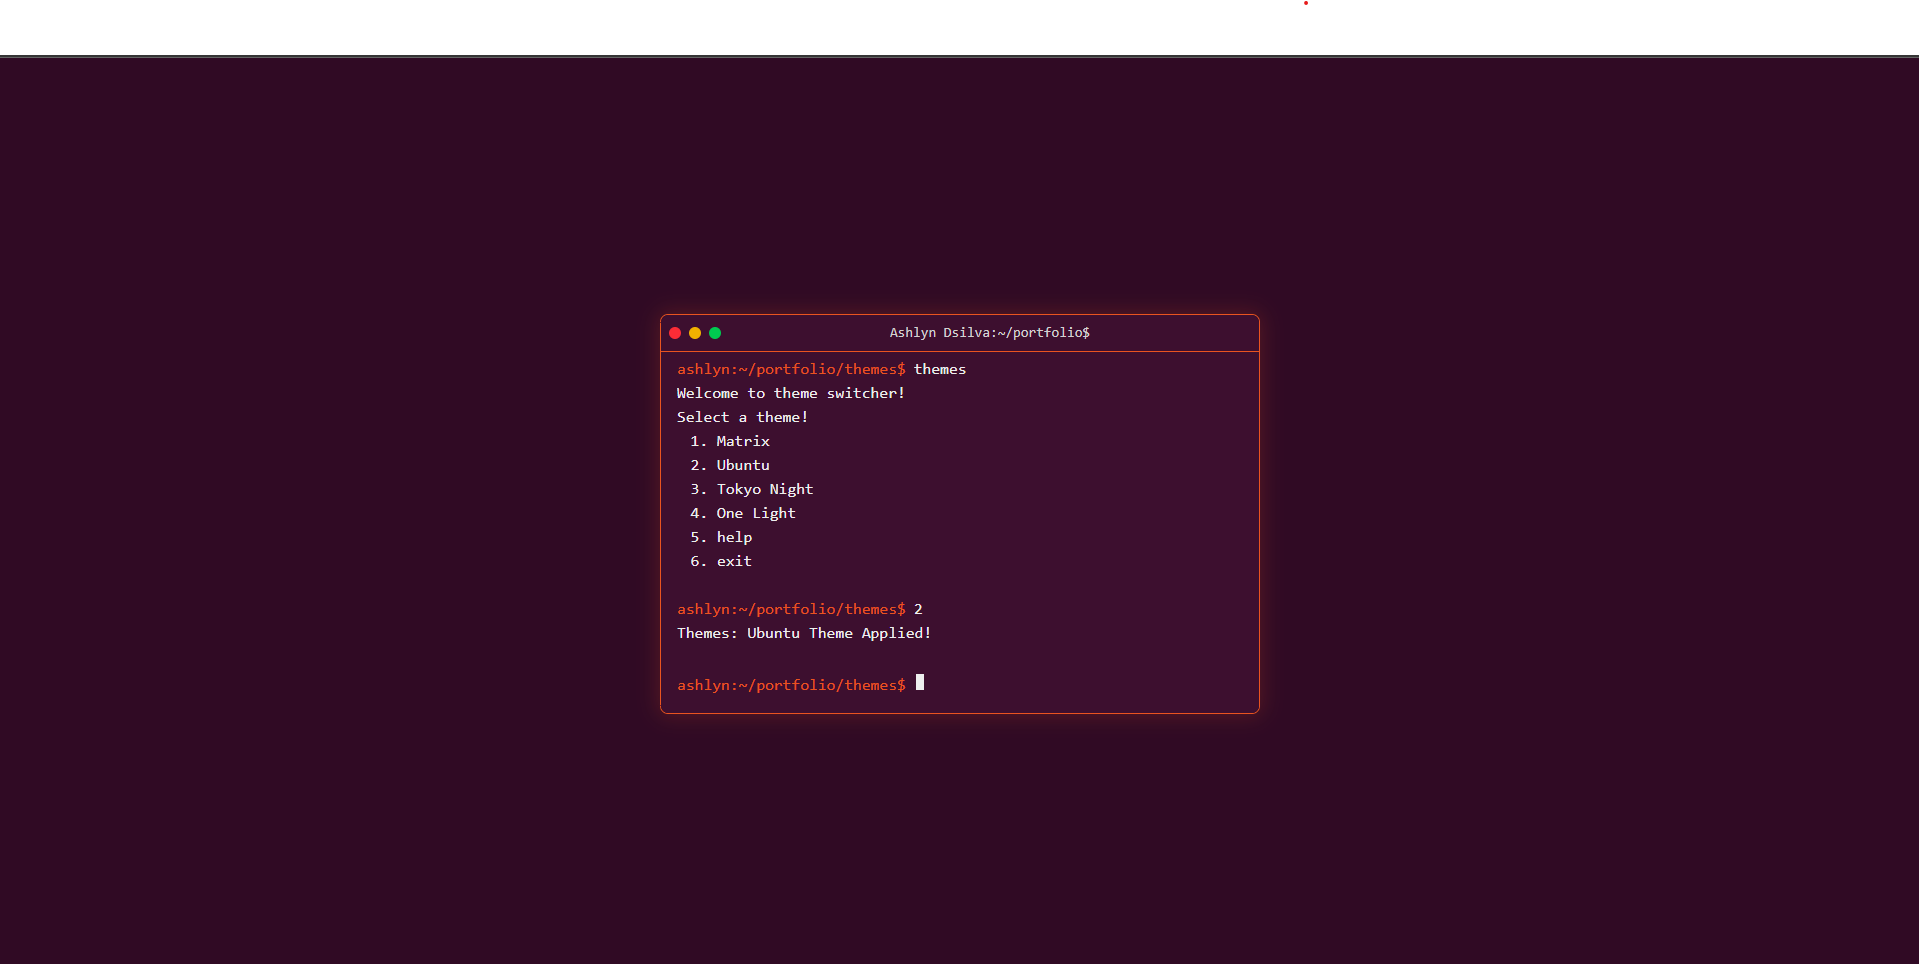
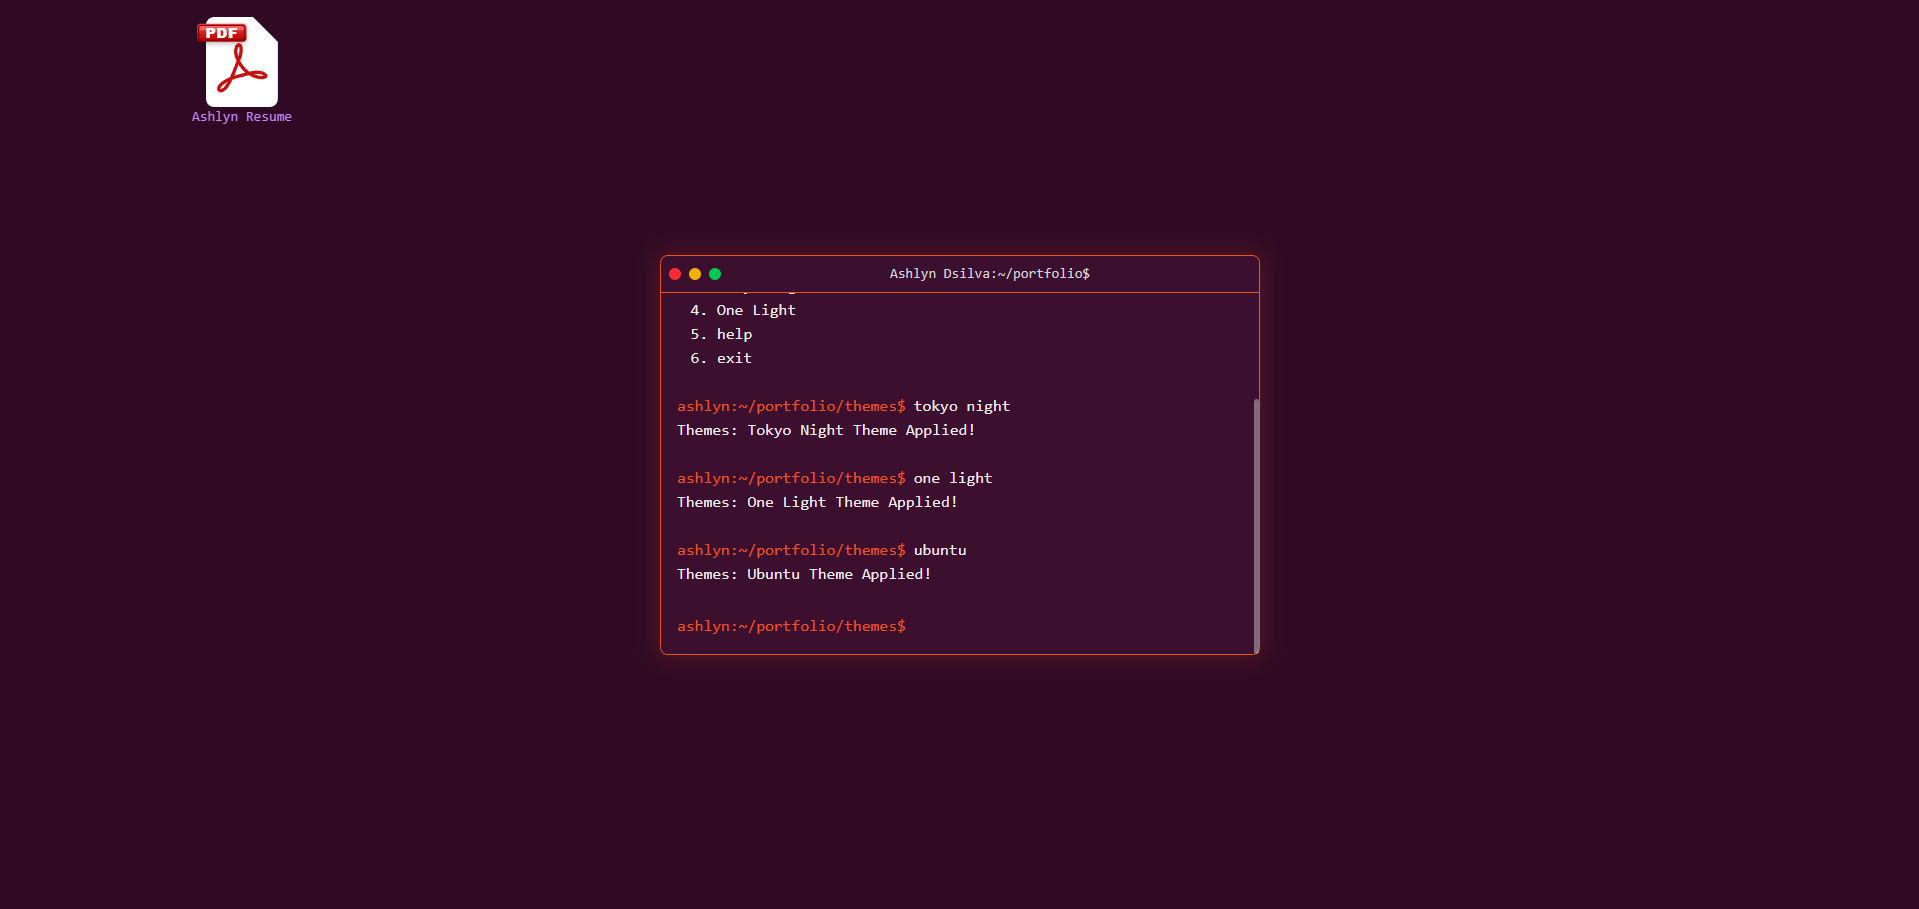
minor improvements and refactors

diff --git a/src/components/Terminal.tsx b/src/components/Terminal.tsx
@@ -5,6 +5,7 @@ import { commands } from "./commands/commands";
 import IconWrapper from "./IconWrapper";
 import useDragElement from "@/hooks/useDragElement";
 import { TerminalIcon } from "./svg/svg";
+import {themesArray} from '@/constants';
 // import MyIcon from "@/public/terminal.svg";
 
 interface Command {
@@ -26,20 +27,12 @@ export default function Terminal({
   const [history, setHistory] = useState<Command[]>([]);
   const [allHistory, setAllHistory] = useState<Command[]>([]);
   const [showIntro, setShowIntro] = useState<boolean>(true);
-  const [show, setShow] = useState<boolean>(true);
-  const [isVisible, setIsVisible] = useState<boolean>(true);
+  const [show, setShow] = useState<boolean>(false);
+  const [isVisible, setIsVisible] = useState<boolean>(false);
   const [commandPointer, setCommandPointer] = useState<number | null>(null);
   const [minMax, setMinMax] = useState("min");
   const [cursorShow, setCursorShow] = useState(false);
   const [isThemeSwitcher, setIsThemeSwitcher] = useState(false);
-
-  const themesObj: Record<string, string> = {
-    "1": "Matrix",
-    "2": "Ubuntu",
-    "3": "Tokyo",
-    "4": "One",
-    "6": "Exit",
-  };
 
   const eleRef = useRef<any | null>(null);
   useDragElement({ eleRef, childId: "header" });
@@ -83,30 +76,23 @@ export default function Terminal({
   const handleSubmit = (e: React.FormEvent) => {
     e.preventDefault();
 
-    // if(command?.trim()?.toLowerCase() === '') return;
-
     const trimmedText = command?.trim()?.toLowerCase();
 
     if (trimmedText === "clear") {
       setHistory([]);
-      setAllHistory((prev) => [
-        ...prev,
-        { command: trimmedText, isTheme: isThemeSwitcher },
-      ]);
+      setAllHistory((prev) => [...prev, { command: trimmedText, isTheme: isThemeSwitcher }]);
       setCommand("");
       setShowIntro(false);
       return;
     }
 
     if (isThemeSwitcher) {
-      if (trimmedText == "6") {
-        setIsThemeSwitcher(false);
-      }
-      if (!["5", "6"].includes(trimmedText) && themesObj[trimmedText]) {
-        setTheme(themesObj[trimmedText].toLowerCase());
+      if (trimmedText === "exit") setIsThemeSwitcher(false);
+      if (!["help", "exit"].includes(trimmedText) && themesArray.includes(trimmedText?.toLowerCase())) {
+        setTheme(trimmedText?.toLowerCase());
       }
       const updateObj = {
-        command: trimmedText == "5" ? "themes" : "themesComp",
+        command: trimmedText === "help" ? "themes" : "themesComp",
         isTheme: isThemeSwitcher,
         arg: trimmedText,
       };
@@ -118,23 +104,19 @@ export default function Terminal({
 
     if (trimmedText === "themes") {
       setIsThemeSwitcher(true);
-      const updateObj = { command: trimmedText, isTheme: true };
-      setHistory((prev) => [...prev, updateObj]);
-      setAllHistory((prev) => [...prev, updateObj]);
+      setHistory((prev) => [...prev, { command: trimmedText, isTheme: true }]);
+      setAllHistory((prev) => [...prev, { command: trimmedText, isTheme: true }]);
       setCommand("");
       return;
     }
 
-    const updateObj = { command: trimmedText, isTheme: isThemeSwitcher };
-    setHistory((prev) => [...prev, updateObj]);
-    setAllHistory((prev) => [...prev, updateObj]);
+    setHistory((prev) => [...prev, { command: trimmedText, isTheme: isThemeSwitcher }]);
+    setAllHistory((prev) => [...prev, { command: trimmedText, isTheme: isThemeSwitcher }]);
+    setCommand("");
 
-    setCommand(""); // clear after submit
-
-    if (trimmedText === "default") {
-      return;
+    if (trimmedText !== "default") {
+      checkForRedirect(trimmedText);
     }
-    checkForRedirect(trimmedText);
   };
 
   useEffect(() => {
@@ -143,6 +125,11 @@ export default function Terminal({
 
   useEffect(() => {
     setCursorShow(true);
+  }, []);
+
+  useEffect(() => {
+      const isLargeScreen = window.innerWidth >= 640;
+      if(isLargeScreen) toggleShow();
   }, []);
 
   const handleKeyDown = (e: React.KeyboardEvent<HTMLInputElement>) => {
@@ -202,9 +189,11 @@ export default function Terminal({
       setTimeout(() => setShow(true), 10); // allow reflow before fade in
     }
   };
+
   const handleShow = () => {
     setShow(!show);
   };
+
   const handleToggle = () => {
     if (show && isVisible) {
       assignActiveWindow(activeWindow =='terminal'? '':activeWindow)
@@ -245,7 +234,7 @@ export default function Terminal({
           className={`
              fixed top-[50%] left-[50%] translate-x-[-50%] translate-y-[-50%]
              terminal-border terminal-text rounded-lg terminal-shadow
-             w-full max-w-md lg:min-w-[600px]   
+             w-[calc(100dvw-2rem)] sm:w-full max-w-md lg:min-w-[600px]   
              flex flex-col max-h-[400px] transition-[min-height,width,opacity,color,background-color] duration-500 me-3
              ${minMax == "max" ? "min-h-[600px]" : "min-h-[400px]"}
              ${show ? `opacity-100 ${activeWindow == 'terminal' ? 'z-10':'z-0'}` : "opacity-0 -z-10"}

diff --git a/src/components/Resume.tsx b/src/components/Resume.tsx
@@ -101,11 +101,11 @@ const Resume = ({assignActiveWindow,activeWindow}:{assignActiveWindow:(arg0:stri
       {isVisible && (
         <div
           className={`
-              fixed top-[50%] left-[50%] translate-x-[-50%] translate-y-[-50%]
+              fixed top-[50%] left-[30%] translate-x-[-30%] translate-y-[-50%]
               terminal-border terminal-text rounded-lg terminal-shadow
-              w-full max-w-md lg:min-w-[800px] 
-              flex flex-col max-h-[400px] transition-[min-height,width,opacity,color,background-color] duration-500
-              ${minMax == "max" ? "min-h-[800px] h-[800px]" : "min-h-[400px] h-[400px]"}
+              w-[calc(100dvw-2rem)] sm:w-full max-w-md  lg:min-w-[800px] 
+              flex flex-col max-h-[90dvh] sm:max-h-[400px] transition-[min-height,width,opacity,color,background-color] duration-500
+              ${minMax == "max" ? "min-h-[600px]" : "min-h-[400px]"}
               ${show ? `opacity-100 ${activeWindow == 'resume' ? 'z-10':'z-0'}` : "opacity-0 -z-10"}
           `}
           ref={eleRef}

diff --git a/src/components/commands/themesComp.tsx b/src/components/commands/themesComp.tsx
@@ -1,17 +1,14 @@
 import React from 'react'
+import {themesArray} from '@/constants';
+
+const capitalize = (str: string) => str.split(' ').map(word => word.charAt(0).toUpperCase() + word.slice(1)).join(' ');
 
 const ThemesComp = ({val}:{val:string | undefined}) => {
-    const themesObj: Record<string, string> = {
-        '1':"Matrix",
-        '2':'Ubuntu',
-        '3':'Tokyo Night',
-        '4':'One Light',
-        '6':'Exit'
-    }
+    
   return (
     <>
         {
-            val && themesObj[val] ? <div>{val != '6' ? `Themes: ${themesObj[val]} Theme Applied!` :  'Exited Theme Switcher'}</div> : <div className='warn-text'>Themes: Theme not found</div>
+            val && themesArray.includes(val.toLowerCase()) ? <div>{val.toLowerCase() != 'exit' ? `Themes: ${capitalize(val)} Theme Applied!` :  'Exited Theme Switcher'}</div> : <div className='warn-text'>Themes: Theme not found</div>
         }
     </>
   )

diff --git a/src/app/(app)/page.tsx b/src/app/(app)/page.tsx
@@ -9,13 +9,14 @@ const Resume = dynamic(() => import("@/components/Resume"), {
 const Terminal = dynamic(() => import("@/components/Terminal"), {
   ssr: false,
 });
+import { themesArray } from "@/constants";
 
 export default function Home() {
   const [theme, setTheme] = useState<string>('matrix');
   const [activeWindow,setActiveWindow] = useState<string>('terminal');
 
-  const permittedThemes = ['matrix','tokyo','ubuntu','one']
-
+  const permittedThemes = themesArray.slice(0,themesArray.length - 1)
+  
   useEffect(()=>{
     let storedTheme = localStorage.getItem("theme") || "matrix";
     storedTheme = permittedThemes.includes(storedTheme) ? storedTheme : 'matrix';

diff --git a/src/app/globals.css b/src/app/globals.css
@@ -46,7 +46,7 @@
   --terminal-shadow: 0 0 20px 2px rgba(233, 84, 32, 0.2);
 }
 
-[data-theme="tokyo"] {
+[data-theme="tokyo night"] {
   --theme-bg: #1a1b26; /* deep night */
   --regular-text: #c0caf5; /* soft bluish white */
   --warn-text: #ff4040; /* warm pink-red for errors */
@@ -57,8 +57,8 @@
   --terminal-shadow: 0 0 25px 2px rgba(125, 207, 255, 0.15);
 }
 
-[data-theme="one"] {
-  --theme-bg: #fafafa; /* near-white background */
+[data-theme="one light"] {
+  --theme-bg: #c9bebe; /* near-white background */
   --regular-text: #383a42; /* dark neutral gray text */
   --warn-text: #e60000; /* muted red */
   --user-line: #4078f2; /* strong blue prompt */

diff --git a/src/components/commands/themes.tsx b/src/components/commands/themes.tsx
@@ -8,7 +8,7 @@ const Themes = () => {
       Welcome to theme switcher!
     </div>
     <div>
-        Select a theme!
+        Apply a theme by entering the theme name!
     </div>
     <div className='ml-[40px]'>
       

diff --git a/src/constants.js b/src/constants.js
@@ -1,0 +1,1 @@
+export const themesArray = ['matrix','ubuntu','tokyo night','one light','exit']

diff --git a/README.md b/README.md
@@ -4,6 +4,12 @@ A simple Linux terminal–style personal portfolio built using **Next.js** and *
 
 ### Screenshots
 
+### Resume Viewer
+![Resume Viewer](./images/resume.png)
+
+### Dynamic Z - Index
+![Dynamic Z-Index](./images/zIndex.png)
+
 ### Matrix
 ![Matrix Theme](./images/matrix.png)
 
@@ -67,3 +73,10 @@ npm start
 - **Next.js** – Framework for server-side rendering and static site generation  
 - **Tailwind CSS** – Utility-first CSS framework for styling  
 - **React** – UI component library  
+
+## Credits
+
+This project was inspired by the Portfolio OS concept created by Guillaume Reygner.  
+While the implementation is built from scratch using Next.js and Tailwind CSS, the overall idea and interface inspiration originate from his work.
+
+Original inspiration: https://github.com/guillaume-rygn/Portfolio-Terminal
